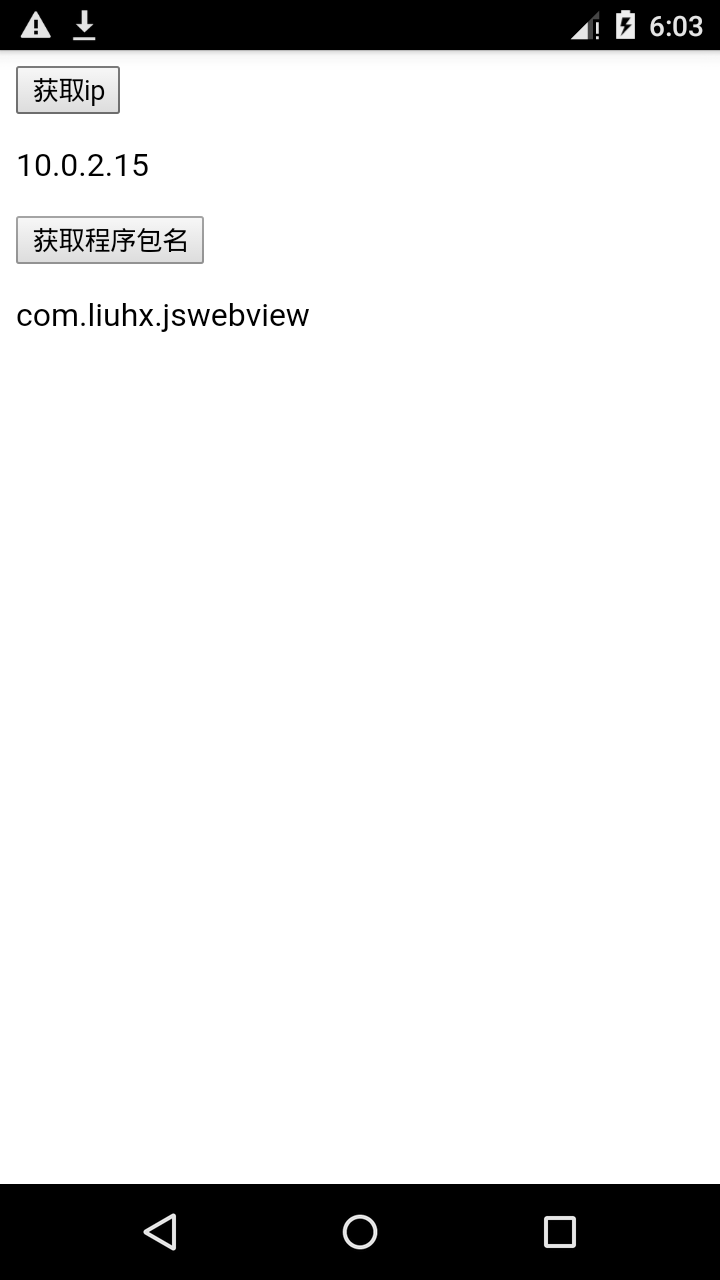
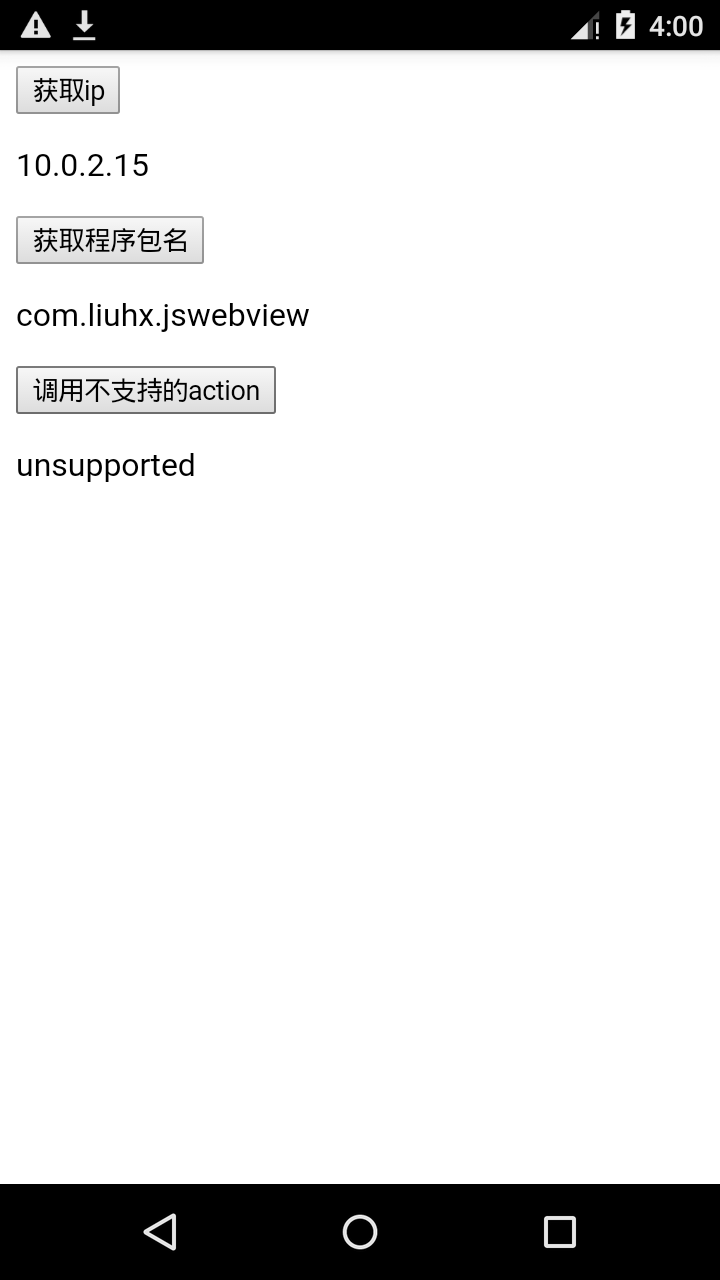
up

Changed region(s): [[0.0, 0.2812, 0.3972, 0.375], [0.9472, 0.0, 0.9778, 0.0312], [0.8861, 0.0, 0.9167, 0.0312]]

diff --git a/android/app/src/main/assets/test-framework.html b/android/app/src/main/assets/test-framework.html
@@ -79,6 +79,18 @@
         document.getElementById('package_result').innerHTML = object.result;
       }
     }
+
+    function doGetUnsupported() {
+      var info = {
+        "action": "whatever",
+        "id": Math.random().toString(),
+        "callback": "getUnsupportedCallback"
+      }
+      callNative(info)
+    }
+    function getUnsupportedCallback(object) {
+      document.getElementById('unsupported_result').innerHTML = object.result;
+    }
   </script>
 </head>
 
@@ -90,6 +102,10 @@
   <input type="button" onclick="doGetPackageName()" value="获取程序包名" />
   <br>
   <p id="package_result">请点击获取获取程序包名，这里将显示结果</p>
+
+  <input type="button" onclick="doGetUnsupported()" value="调用不支持的action" />
+  <br>
+  <p id="unsupported_result">请点击调用不支持的action，这里将显示结果</p>
 </body>
 
 </html>

diff --git a/android/app/src/main/java/com/liuhx/jswebview/injector/WebViewInjector.java b/android/app/src/main/java/com/liuhx/jswebview/injector/WebViewInjector.java
@@ -17,6 +17,7 @@ import java.util.Map;
 public class WebViewInjector {
 
     private static final Map<String, JsHandler> sHandlerMap = new HashMap<>(10);
+    private static final JsHandler sDefaultHandler = new DefaultHandler();
 
     private static final String sKeyId = "id";
     private static final String sKeyAction = "action";
@@ -47,9 +48,10 @@ public class WebViewInjector {
             JSONObject object = new JSONObject(jsonString);
             String action = object.getString("action");
             JsHandler handler = sHandlerMap.get(action);
-            if (handler != null) {
-                handler.handleJs(mWebView, object);
+            if (handler == null) {
+                handler = sDefaultHandler;
             }
+            handler.handleJs(mWebView, object);
         } catch (Exception e) {
             e.printStackTrace();
         }

diff --git a/ios/JsWebView/JsFramework/DefaultHandler.m b/ios/JsWebView/JsFramework/DefaultHandler.m
@@ -1,0 +1,32 @@
+//
+//  DefaultHandler.m
+//  JsWebView
+//
+//  Created by liuhx on 2018/7/12.
+//  Copyright © 2018 hursing. All rights reserved.
+//
+
+#import "DefaultHandler.h"
+
+@implementation DefaultHandler
+
++ (instancetype)sharedInstance {
+    static DefaultHandler *sharedInstance = nil;
+    static dispatch_once_t onceToken;
+    dispatch_once(&onceToken, ^{
+        sharedInstance = [[self alloc] init];
+    });
+    return sharedInstance;
+}
+
+- (NSString *)action {
+    return nil;
+}
+
+- (void)handleJsFromWebView:(WKWebView *)webView info:(NSDictionary *)info {
+    NSMutableDictionary *toJs = [[NSMutableDictionary alloc] initWithCapacity:3];
+    toJs[@"result"] = @"unsupported";
+    invokeCallback(webView, info, toJs);
+}
+
+@end

diff --git a/android/app/src/main/java/com/liuhx/jswebview/injector/DefaultHandler.java b/android/app/src/main/java/com/liuhx/jswebview/injector/DefaultHandler.java
@@ -1,0 +1,30 @@
+package com.liuhx.jswebview.injector;
+
+import android.webkit.WebView;
+
+import org.json.JSONException;
+import org.json.JSONObject;
+
+/**
+ * @author liuhx
+ * @date 2018/7/12.
+ */
+
+public class DefaultHandler implements JsHandler {
+    @Override
+    public String action() {
+        return null;
+    }
+
+    @Override
+    public void handleJs(WebView webView, JSONObject object) {
+        JSONObject toJs = new JSONObject();
+        try {
+            toJs.put("result", "unsupported");
+        } catch (JSONException e) {
+            e.printStackTrace();
+            return;
+        }
+        WebViewInjector.invokeCallback(webView, object, toJs);
+    }
+}

diff --git a/ios/JsWebView/JsFramework/WebViewInjector.m b/ios/JsWebView/JsFramework/WebViewInjector.m
@@ -10,6 +10,7 @@
 
 #import "GetIpHandler.h"
 #import "GetPackageNameHandler.h"
+#import "DefaultHandler.h"
 
 NSMutableDictionary<NSString*, id<JsHandler>> *s_jsHandlers = nil;
 
@@ -47,9 +48,10 @@ void initHandlersIfNeed() {
     }
     NSString *action = body[@"action"];
     id<JsHandler> handler = s_jsHandlers[action];
-    if (handler) {
-        [handler handleJsFromWebView:self.webView info:body];
+    if (!handler) {
+        handler = [DefaultHandler sharedInstance];
     }
+    [handler handleJsFromWebView:self.webView info:body];
 }
 
 @end

diff --git a/ios/JsWebView/JsFramework/DefaultHandler.h b/ios/JsWebView/JsFramework/DefaultHandler.h
@@ -1,0 +1,16 @@
+//
+//  DefaultHandler.h
+//  JsWebView
+//
+//  Created by liuhx on 2018/7/12.
+//  Copyright © 2018 hursing. All rights reserved.
+//
+
+#import <Foundation/Foundation.h>
+#import "JsHandler.h"
+
+@interface DefaultHandler : NSObject <JsHandler>
+
++ (instancetype)sharedInstance;
+
+@end
